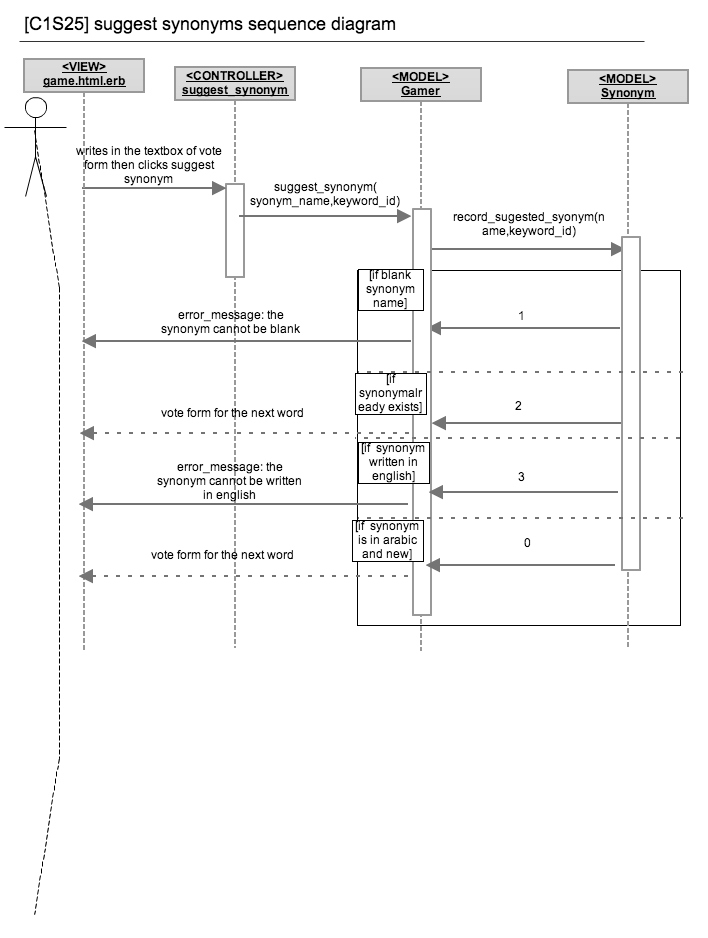
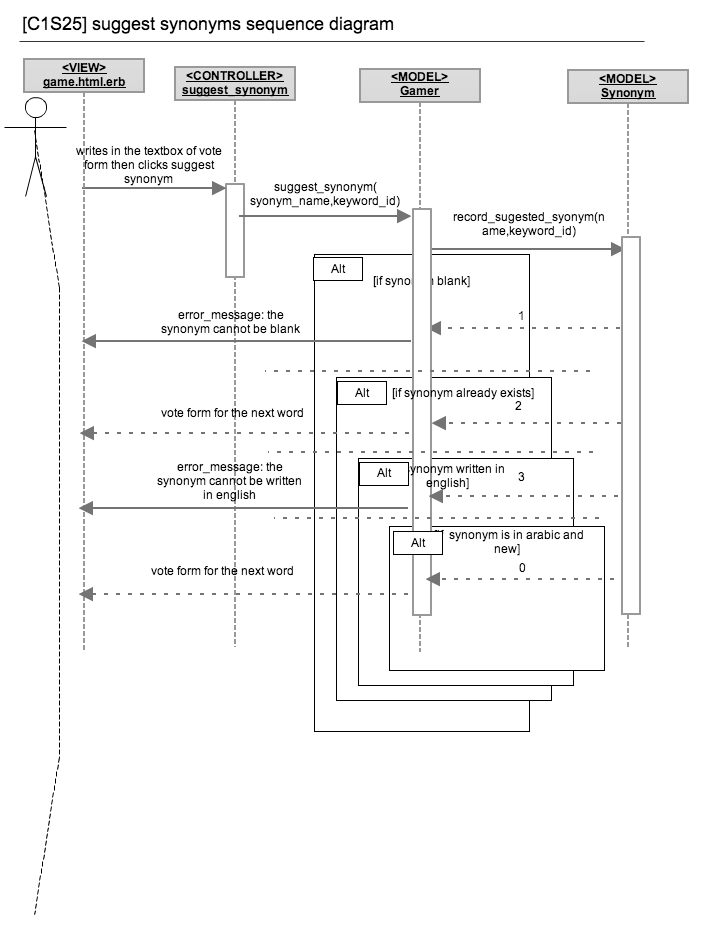
[issue 170] [WIP] adds suggest synonym tests and corrects the UML

diff --git a/arability/spec/models/gamer_suggest_spec.rb b/arability/spec/models/gamer_suggest_spec.rb
@@ -54,10 +54,14 @@ describe "gamer suggestion" do
 		result.should eq(3)
 	end
 
+
 	it "should save a suggested synonym if written in arabic" do
 		keyword_id = test_keyword.id
-		result = test_gamer.suggest_synonym("عربية",keyword_id)
+		result = test_gamer.suggest_synonym("يبتنم",keyword_id)
+		added_synonym =  Synonym.where(name: "يبتنم",keyword_id: keyword_id).first
+		added_vote = Vote.where(keyword_id, added_synonym.id)
 		result.should eq(0)
+		added_vote.should_not eq(0) 
 	end
 
 end
